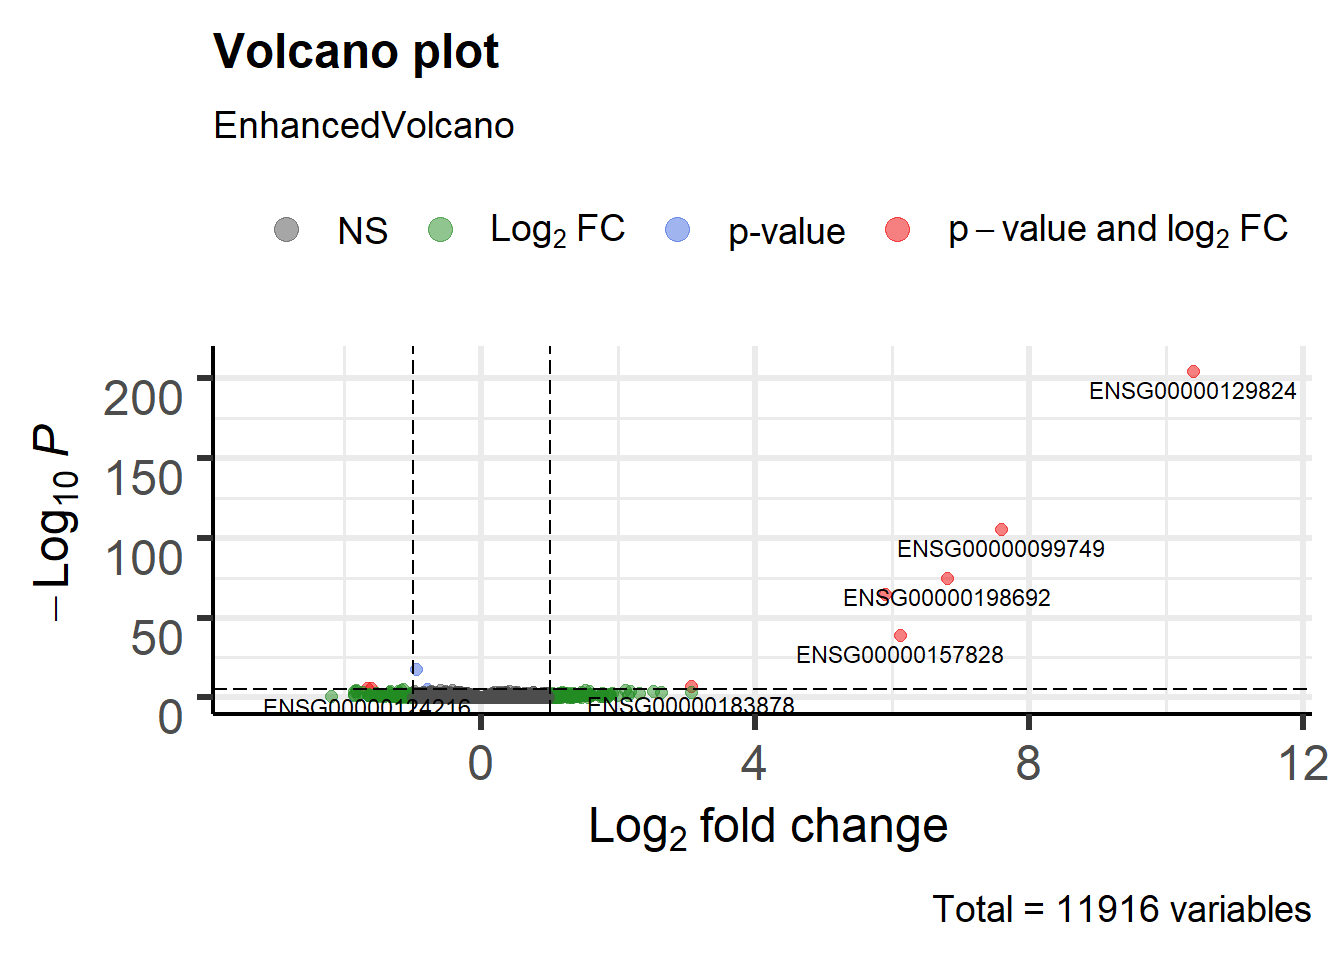
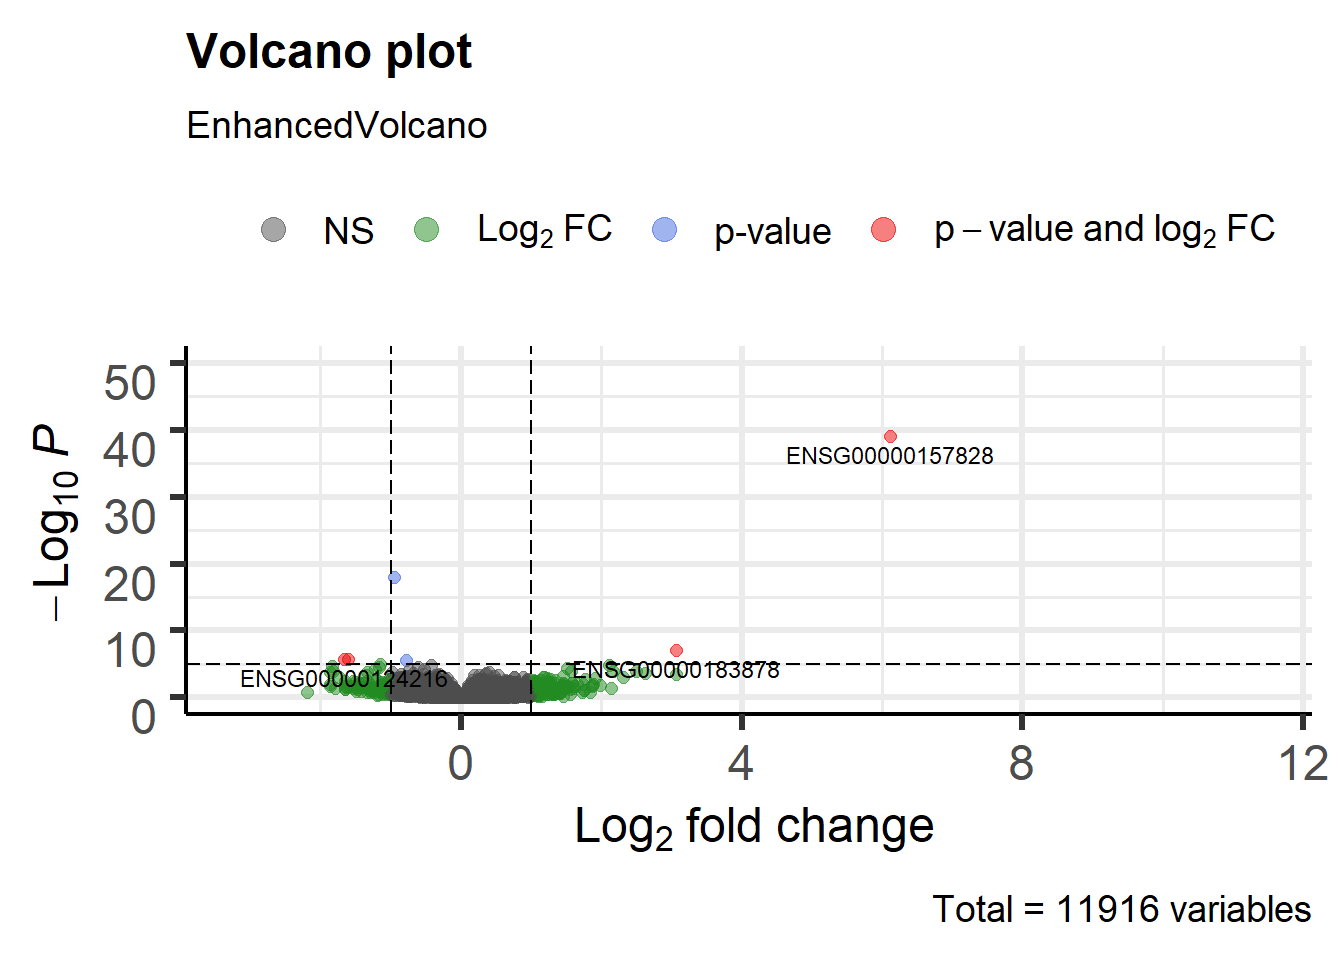
volcano plot EDSeq2

diff --git a/docs/rnaseq-data-analysis.html b/docs/rnaseq-data-analysis.html
@@ -656,7 +656,7 @@ Figure 6.8: MA plot of differentital expression results
 <span id="cb363-2"><a href="rnaseq-data-analysis.html#cb363-2"></a><span class="kw">EnhancedVolcano</span>(DEresults,</span>
 <span id="cb363-3"><a href="rnaseq-data-analysis.html#cb363-3"></a>                <span class="dt">lab =</span> <span class="kw">rownames</span>(DEresults),</span>
 <span id="cb363-4"><a href="rnaseq-data-analysis.html#cb363-4"></a>                <span class="dt">x =</span> <span class="st">&#39;log2FoldChange&#39;</span>,</span>
-<span id="cb363-5"><a href="rnaseq-data-analysis.html#cb363-5"></a>                <span class="dt">y =</span> <span class="st">&#39;pvalue&#39;</span>)</span></code></pre></div>
+<span id="cb363-5"><a href="rnaseq-data-analysis.html#cb363-5"></a>                <span class="dt">y =</span> <span class="st">&#39;pvalue&#39;</span>, <span class="dt">ylim=</span><span class="kw">c</span>(<span class="dv">0</span>,<span class="dv">50</span>))</span></code></pre></div>
 <div class="figure" style="text-align: center"><span id="fig:volcanoEnhanced"></span>
 <img src="fig/volcanoEnhanced-1.png" alt="Volcano plot males vs females Pickrell data" width="672" />
 <p class="caption">
